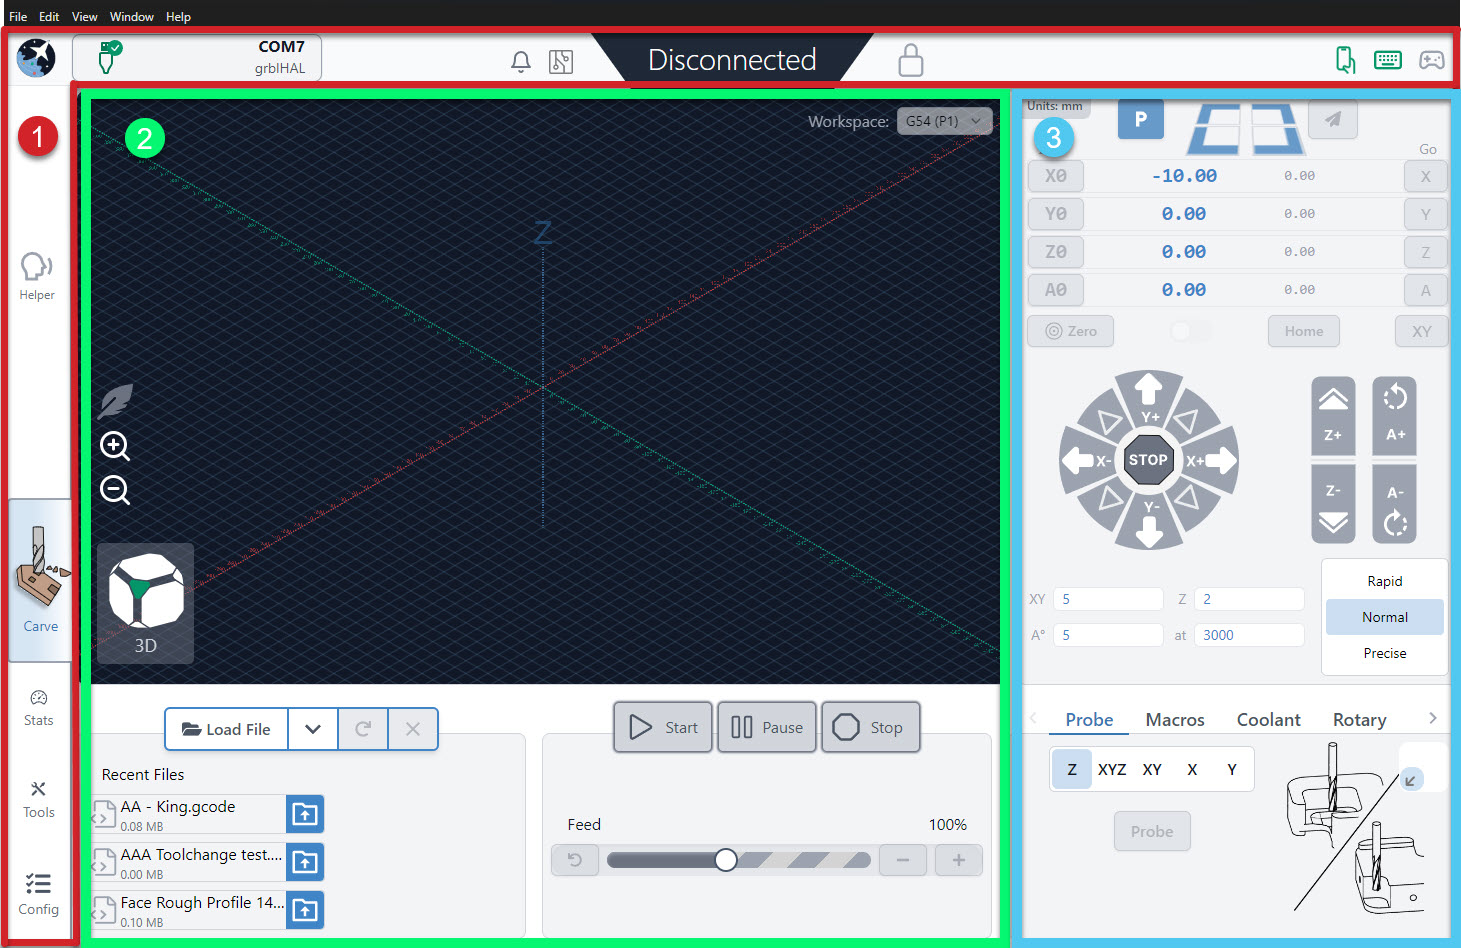
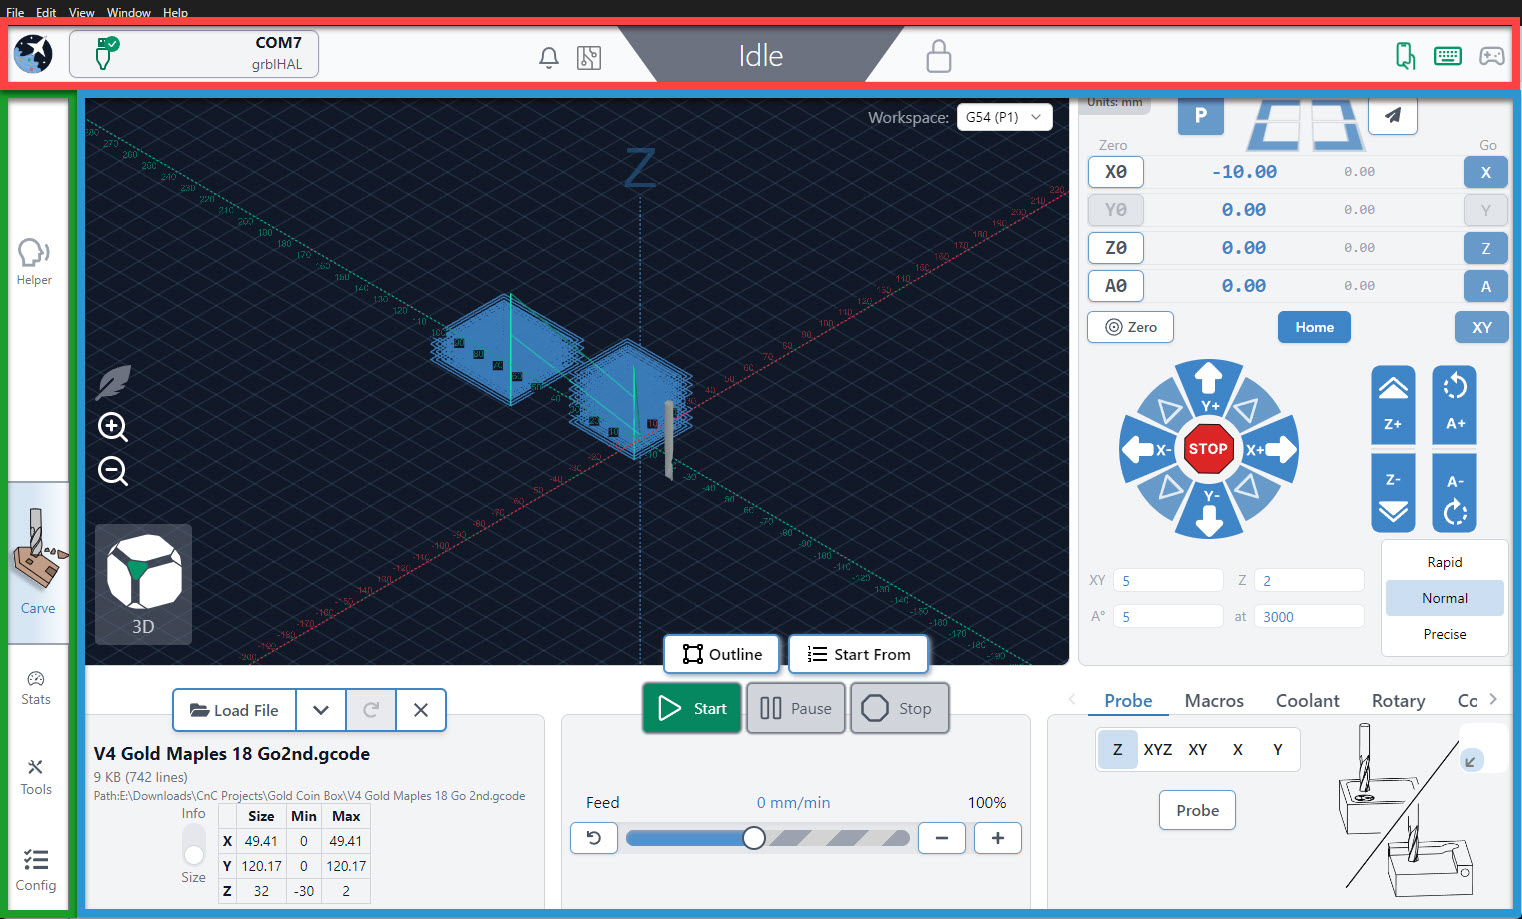
gsender setup layout update

diff --git a/gsender/ytsb-gs-setup-and-layout.md b/gsender/ytsb-gs-setup-and-layout.md
@@ -12,7 +12,7 @@ custom_fields:
     KBName: gSender
     basepress_post_icon: bp-caret-right
 skip_file: no
-featured_image: 
+featured_image: _images/_gsender/_setup/gs_se_carve-overview.jpg
 ---
 
 ## Anonymous Information
@@ -23,19 +23,23 @@ When you open up gSender, you’ll notice a prompt regarding ‘Anonymous usage 
 
 ## Layout
 
-Before starting to use gSender, let's briefly cover the way its functions are laid out so that you'll know where to find things moving forward. Let's begin by exploring the main screen.
+Before starting to use gSender, let's briefly cover the way its functions are laid out so that you'll know where to find things moving forward. The program can be broken down into it's three major sections:
+
+- The top toolbar (boxed in red), will stay visible regardless of what you are doing. It includes machine connection on the left side, notifications, system stats and current status in the middle, and shortcuts on the right.
+- The left-sidebar (boxed in green) holds 5 main tabs; the Helper, the main Carve tab (which we have showing now), Stats, Tools, and Config.
+- The main screen (boxed in blue) will show the contents of the selected tab in the left sidebar, with the default being the Carve tab.
+
+![](/_images/_gsender/_setup/gs_se_carve-overview.jpg){.aligncenter .size-medium}
 
 ### Carve
 
-This is where you will spend the majority of your time actually carving. When the program opens, this is where you will arrive! There are 3 main sections to the Carve tab. Beginning at the top left corner:
-
-1. The top and left side toolbars (boxed in red), will stay visible, regardless of what you are doing. The top bar includes machine connection on the left side, notifications, system stats and current status in the middle, and shortcuts on the right. The left-side toolbar (boxed in red), holds 5 main tabs. The tabs include the Helper, the main Carve tab (which we have showing now), Stats, Tools, and Config tabs.
+This is where you will spend the majority of your time actually carving. When the program opens, this is where you will arrive! There are 2 main sections to the Carve tab.
 
 1. The large middle visualizer (boxed in green), is where you manage your files and can watch the magic happen after you hit the start button. Rotate your view, monitor the job progress, turn on lightweight mode, change workspaces or feed speed, and more.
 
 1. The DRO and Jog Controls on the right (boxed in blue), have all the functions you need to manually control your CNC when jobs aren't running. This includes jogging, zero setting, homing, Go to movements, and more. The panel at the bottom features tabs that allow cutting jobs, probing, running macros, manual laser / spindle control, and more.
 
-![](/_images/_gsender/_setup/gs_se_carve-overview.jpg){.aligncenter .size-medium}
+![](/_images/_gsender/_setup/gs_se_carve-tab.jpg){.aligncenter .size-medium}
 
 We’ve built gSender’s layout around these primary boxed sections so that you can have all of the CNC functionality most hobbyists need on one screen without getting confused about what each button does. If you’re doing anything **during** a job it’ll be in the middle, if you’re doing anything **outside** a job it’ll likely be on the right, and if you want greater customization or functionality it’ll be found in the toolbars.
 
@@ -43,15 +47,15 @@ Another of gSender’s Design Principals is colouring. It can be scary to have a
 
 ### Stats
 
-The Stats tab provides an overview of your machine configuration, recent jobs (including their run time and if they were successful or not), upcoming maintenance, alarms & errors, plus a comprehensive help section.
+The Stats tab provides an overview of your machine configuration, recent jobs (including their run time and if they were successful or not), upcoming maintenance, alarms & errors, plus a comprehensive help section. You can click on the bottom bar to enter each page for more details.
 
-![](/_images/_gsender/_setup/gs_se_mainstats.jpg)
+![](/_images/_gsender/_setup/gs_se_stats-tab.jpg){.aligncenter .size-medium}
 
 ### Tools
 
 In the Tools tab provides wizards you can use to walk through XY squaring or movement tuning of your machine. Wasteboard surfacing, keyboard shortcuts, and gamepad profiles.
 
-![](/_images/_gsender/_setup/gs_se_maintools.jpg)
+![](/_images/_gsender/_setup/gs_se_maintools.jpg){.aligncenter .size-medium}
 
 ## Config
 
@@ -61,7 +65,7 @@ The final tab is the configuration tab. Here you will find an extensive list of 
 
 ## Set up to Use
 
-The last tab is called "Config" at the bottom left corner of the app. All the stuff you need to access to set up gSender for your own setup and also for your CNC can be found in the Config tab. This includes how things look in gSender like colours, units (mm/inch), etc. as well as machine settings. Some things you'll likely want to configure would be:
+Let's explore some common gSender setting to get your own setup up and running as you prefer. We can change how gSender looks, which unit of measurement we want (mm/inch) and adjust machine settings, all in the same place. Some things you may want to configure would be:
 
 - Preferred units
 - Tabs to enable functionality
@@ -69,11 +73,23 @@ The last tab is called "Config" at the bottom left corner of the app. All the st
 - Visualizer theme
 - Dark mode
 
-**Preferred Units** where you can toggle between metric (mm) and imperial (in) units, and **Reconnect Automatically**, which allows you to reconnect the the last machine you used, automatically.
+**Preferred Units** is a setting where you can toggle between metric (mm) and imperial (in) units. It can be selected in the Basics section of the Config Tab. Don't forget to hit **Apply Settings** after making any changes.
 
 ![](/_images/_gsender/_setup/gs_se_configstart.jpg){.aligncenter .size-medium}
 
-You may also want to tweak how gSender is displayed by enabling **Dark Mode**. You can also change the visualizer to display in light or dark mode! This setting is found a little further down in the Config -> Customize UI tab.
+You will see your selection appear on the Carve Tab, on the top left corner of the DRO.
+
+![](/_images/_gsender/_setup/gs_se_units-mainscreen.jpg){.aligncenter .size-medium}
+
+If you are looking to add **Functionality** and use extra hardware like a rotary, spindle or laser, you will have to enable them in the Config tab, for their control to appear on the Carve tab.
+
+![](/_images/_gsender/_setup/gs_se_hardware-enable.gif){.aligncenter .size-full}
+
+If you want to turn off your Job End or Maintenance Task **Notifications**, you can find the toggle in the Basics section of Config.
+
+![](/_images/_gsender/_setup/gs_se_togglenotifs.jpg){.aligncenter .size-medium}
+
+You may also want to tweak how gSender is displayed by enabling **Dark Mode**. You can also change the **Visualizer Theme** to display in light or dark mode! These settings are found a little further down in the Config -> Customize UI tab.
 
 ### Machine Profiles
 
